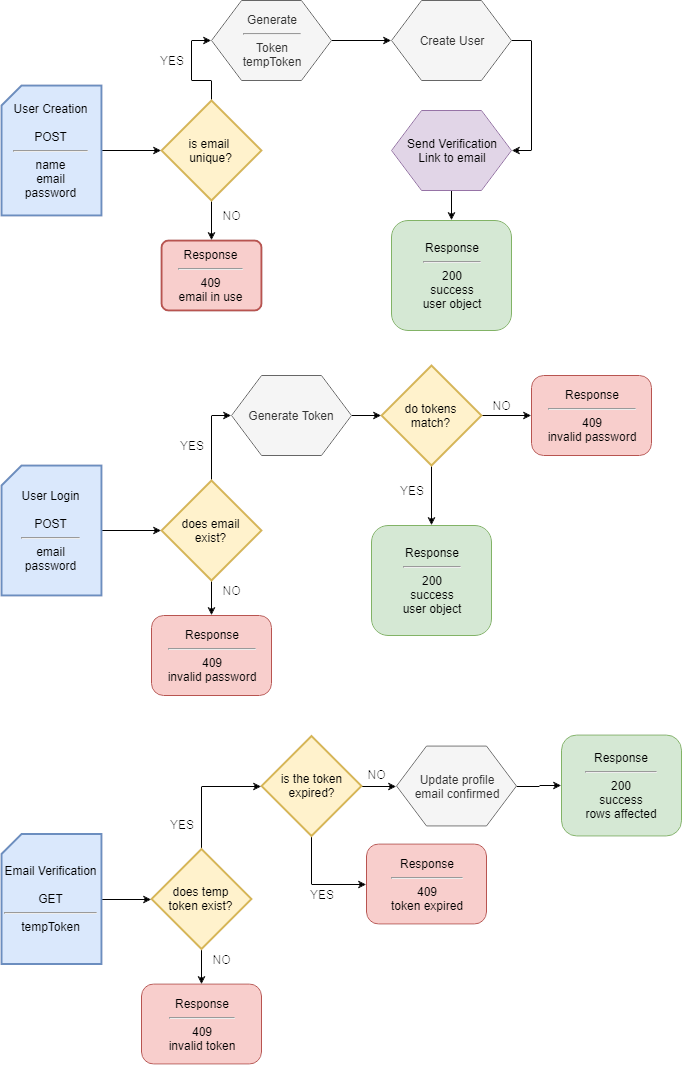
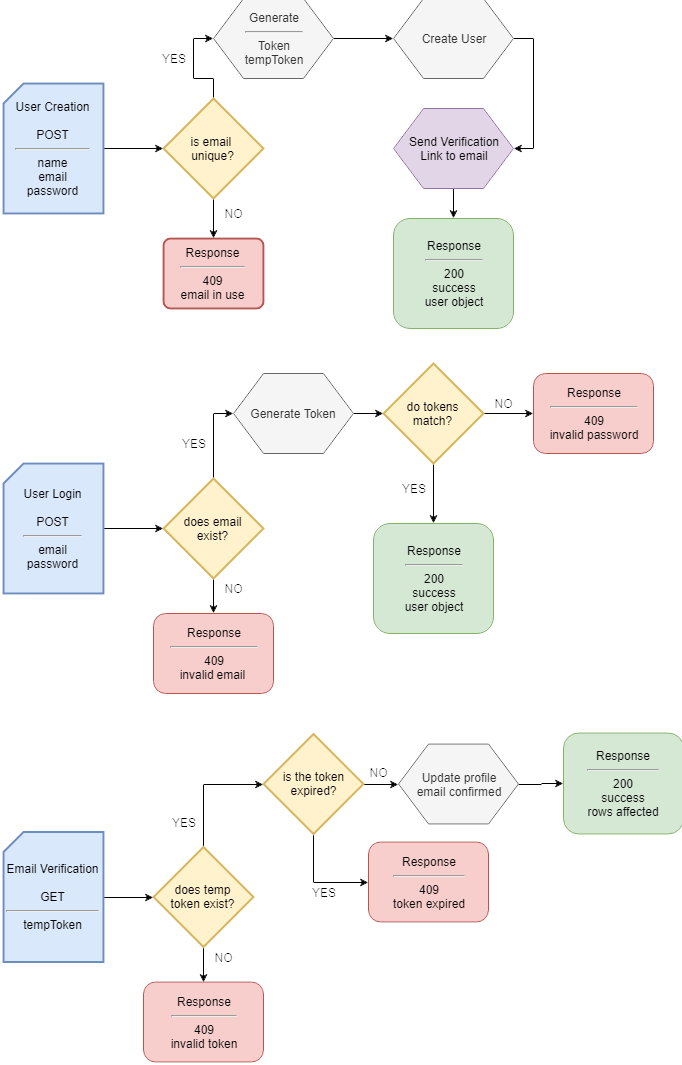
fixed errors in the auth and db images and updated the readme.

diff --git a/README.md b/README.md
@@ -47,6 +47,8 @@
     - name
     - frequency
     - assignedTo
+    - assignedWhen
+    - htmlTarget
     - isComplete
     - HouseholdId (foreign key)
   - Associations
@@ -57,6 +59,8 @@
     - id
     - title
     - body
+    - category
+    - isReply
     - linkedTo
     - isFlagged
     - UserId (foreign key)
@@ -74,4 +78,18 @@
 
 ## The RESTful API
 
-Our `express` server endeavors to return a status of `200 (OK)` for all CRUD operations, independent (_and in spite_) of server side errors. This places error handling firmly in the hands of the front end logic. Our server also strongly opposes redirects, again placing considerable burden on the front end to be flexible in its views.
+Our `express` server endeavors to return a status of `200 (OK)` for all CRUD operations, independent (_and in spite_) of server side errors. This places error handling firmly in the hands of the front end logic.
+
+### Routes
+
+Server routing is handled through three separate routing scripts, namely:
+
+1. htmlRoutes.js
+2. apiRoutes.js
+3. authRoutes.js
+
+**htmlRoutes**
+
+**apiRoutes** handle data flow to and from the linked MySQL Database. These routes accept ajax verbs (get, post, put, delete) and carry out the corresponding operation on the database. Each api route will return a standardized object with keys [status, reason, data] to the client independent of the success or failure of the CRUD operation. If the operation encountered an error, that error will be sent back to the client machine with a global status of `200`, but the object status will be either `409` for invalid data or `500` for package errors.
+
+**authRoutes** operate exactly as the apiRoutes, but are meant to handle user authentication. The routes contain operations that require the `crypto, @sendgrid/mail, and moment` packages. These routes could easily be dovetailed with the apir routes, but have been defined in their own script file to reduce clutter.
